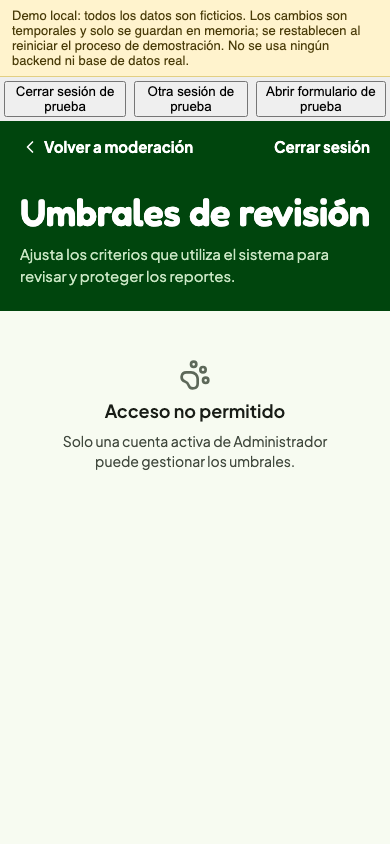
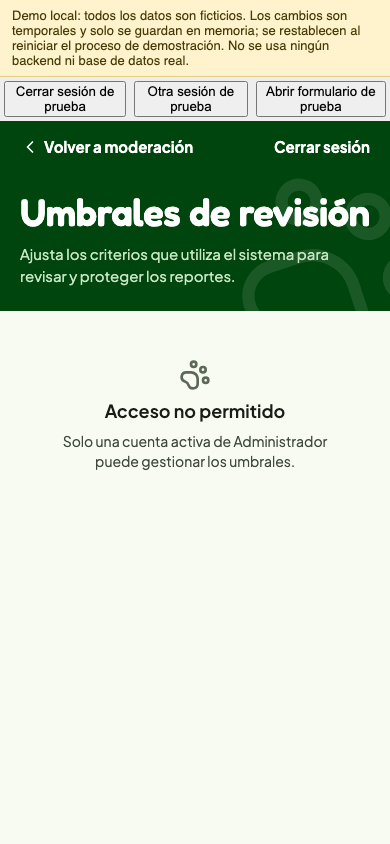
style(design): TD-134 Configuración: filas con número grande, una huella y barra con Guardar en una línea
Ajustes como lista agrupada, sin círculos con ícono. Recargar pasa a botón de ícono con nombre accesible. Misma lógica y contrato.

diff --git a/screens/ConfigurationScreen.js b/screens/ConfigurationScreen.js
@@ -7,31 +7,32 @@
  */
 import { useEffect, useRef, useState } from 'react';
 import { useTranslation } from 'react-i18next';
-import { AccessibilityInfo, BackHandler, KeyboardAvoidingView, Platform, Pressable, ScrollView, StyleSheet, Text, TextInput, useWindowDimensions, View } from 'react-native';
+import { AccessibilityInfo, BackHandler, KeyboardAvoidingView, Platform, Pressable, ScrollView, StyleSheet, Text, TextInput, View } from 'react-native';
 import { SafeAreaView } from 'react-native-safe-area-context';
 import { useConfiguration } from '../hooks/useConfiguration.js';
 import { CONFIGURATION_FIELDS, CONFIGURATION_GROUPS } from '../models/configuration.js';
-import { AppButton, Banner, Icon, PawTrail, Sheet, StateView } from '../components/ui/index.js';
+import { AppButton, Banner, Icon, Sheet, StateView } from '../components/ui/index.js';
 import { colors, fontFamily, layout, radius, spacing, type } from '../theme/index.js';
 
-const groupIcons = { flags: 'flag', duplicates: 'copy', trust: 'shield', location: 'map', limits: 'gauge' };
 /** Translates a validation error (`{key, values}`) or returns a string error as is. */
 function errorText(error, t) {
   return typeof error === 'string' ? error : error ? t(`configuration.validation.${error.key}`, error.values) : '';
 }
 /** Numeric input for one `CONFIGURATION_FIELDS` entry with hint, help and error text. */
-function ThresholdField({ field, value, error, disabled, t, wide, inputRef, onChange, onLayout }) {
+function ThresholdField({ field, value, error, disabled, t, inputRef, onChange, onLayout, last }) {
   const label = t(`configuration.fields.${field.key}`);
   const message = errorText(error, t);
   const hint = t(field.decimals === 0 ? 'configuration.integerHint' : 'configuration.decimalHint', field);
-  return <View onLayout={onLayout} style={[styles.field, wide && styles.wideField]}>
-    <Text nativeID={`${field.key}-label`} style={styles.label}>{label}</Text>
-    <Text style={styles.hint}>{hint}</Text>
+  return <View onLayout={onLayout} style={[styles.row, !last && styles.rowDivider]}>
+    <View style={styles.rowText}>
+      <Text nativeID={`${field.key}-label`} style={styles.label}>{label}</Text>
+      <Text style={styles.hint}>{hint}</Text>
+      <Text nativeID={`${field.key}-help`} accessibilityLiveRegion="polite" style={error ? styles.fieldError : styles.fieldHelp}>{message || t(`configuration.help.${field.key}`)}</Text>
+    </View>
     <TextInput ref={inputRef} testID={`configuration-${field.key}`} accessibilityLabel={label} accessibilityHint={message || hint}
       aria-invalid={Boolean(error)} aria-describedby={`${field.key}-help`} value={value} editable={!disabled}
       onChangeText={onChange} keyboardType={field.decimals === 0 ? 'number-pad' : 'decimal-pad'} inputMode={field.decimals === 0 ? 'numeric' : 'decimal'}
-      selectTextOnFocus autoCorrect={false} style={[styles.input, styles.numberInput, error && styles.inputError, disabled && styles.inputDisabled]} />
-    <Text nativeID={`${field.key}-help`} accessibilityLiveRegion="polite" style={error ? styles.fieldError : styles.fieldHelp}>{message || t(`configuration.help.${field.key}`)}</Text>
+      selectTextOnFocus autoCorrect={false} style={[styles.numberInput, error && styles.inputError, disabled && styles.inputDisabled]} />
   </View>;
 }
 
@@ -46,7 +47,6 @@ function ThresholdField({ field, value, error, disabled, t, wide, inputRef, onCh
  */
 export default function ConfigurationScreen({ accessToken, onBack, onLogout, logoutPending = false, api }) {
   const { t } = useTranslation();
-  const { width } = useWindowDimensions();
   const form = useConfiguration(accessToken, api);
   const [pendingAction, setPendingAction] = useState(null);
   const scroll = useRef(null);
@@ -103,7 +103,7 @@ export default function ConfigurationScreen({ accessToken, onBack, onLogout, log
     <KeyboardAvoidingView style={styles.flex} behavior={Platform.OS === 'ios' ? 'padding' : undefined}>
       <ScrollView ref={scroll} style={styles.scroll} keyboardShouldPersistTaps="handled" contentContainerStyle={styles.content}>
         <View style={styles.header}>
-          {ready ? <PawTrail style={styles.headerTrail} /> : null}
+          <View pointerEvents="none" accessible={false} aria-hidden importantForAccessibility="no" style={styles.bigPaw}><Icon name="dog" size={210} color={colors.onPrimary} strokeWidth={1.4} /></View>
           <View style={styles.headerInner}>
             {onBack || onLogout ? <View style={styles.topActions}>
               {onBack ? <Pressable accessibilityRole="button" disabled={form.saving} onPress={() => navigate('back')} hitSlop={8} style={styles.back}>
@@ -133,15 +133,18 @@ export default function ConfigurationScreen({ accessToken, onBack, onLogout, log
           {form.savedVersion ? <Banner tone="success" message={t('configuration.saved', { version: form.savedVersion })} /> : null}
           {errorCount ? <Banner tone="error" message={t('configuration.fixFields', { count: errorCount })} /> : null}
           {form.error && !errorCount ? <Banner tone="error" message={form.needsReload ? t('configuration.verifyBeforeRetry') : generalError} /> : null}
-          {CONFIGURATION_GROUPS.map((group) => <View key={group} onLayout={(event) => { sections.current[group] = event.nativeEvent.layout.y; }} style={styles.group}>
-            <View style={styles.sectionHeader}><View style={styles.sectionIcon}><Icon name={groupIcons[group] ?? 'info'} size={18} color={colors.primary} /></View><Text accessibilityRole="header" style={styles.sectionTitle}>{t(`configuration.groups.${group}`)}</Text></View>
-            <View style={styles.fields}>{CONFIGURATION_FIELDS.filter((field) => field.group === group).map((field) => <ThresholdField key={field.key} field={field} value={form.draft[field.key]}
-              error={form.fieldErrors[field.key]} disabled={form.saving || form.needsReload} t={t} wide={width >= 760}
-              inputRef={(node) => { inputs.current[field.key] = node; }} onChange={(value) => form.changeField(field.key, value)}
-              onLayout={(event) => { fieldOffsets.current[field.key] = event.nativeEvent.layout.y; }} />)}</View>
-          </View>)}
+          {CONFIGURATION_GROUPS.map((group) => {
+            const groupFields = CONFIGURATION_FIELDS.filter((field) => field.group === group);
+            return <View key={group} onLayout={(event) => { sections.current[group] = event.nativeEvent.layout.y; }} style={styles.group}>
+              <Text accessibilityRole="header" style={styles.sectionTitle}>{t(`configuration.groups.${group}`)}</Text>
+              <View style={styles.list}>{groupFields.map((field, index) => <ThresholdField key={field.key} field={field} value={form.draft[field.key]}
+                error={form.fieldErrors[field.key]} disabled={form.saving || form.needsReload} t={t} last={index === groupFields.length - 1}
+                inputRef={(node) => { inputs.current[field.key] = node; }} onChange={(value) => form.changeField(field.key, value)}
+                onLayout={(event) => { fieldOffsets.current[field.key] = event.nativeEvent.layout.y; }} />)}</View>
+            </View>;
+          })}
           <View style={styles.group} onLayout={(event) => { sections.current.note = event.nativeEvent.layout.y; }}>
-            <View style={styles.sectionHeader}><View style={styles.sectionIcon}><Icon name="info" size={18} color={colors.primary} /></View><Text accessibilityRole="header" style={styles.sectionTitle}>{t('configuration.reasonTitle')}</Text></View>
+            <Text accessibilityRole="header" style={styles.sectionTitle}>{t('configuration.reasonTitle')}</Text>
             <Text style={styles.hint}>{t('configuration.reasonHelp')}</Text>
             <TextInput ref={(node) => { inputs.current.change_note = node; }} testID="configuration-change_note" multiline textAlignVertical="top" value={form.draft.change_note}
               editable={!form.saving && !form.needsReload} accessibilityLabel={t('configuration.reasonTitle')} aria-invalid={Boolean(form.fieldErrors.change_note)}
@@ -155,8 +158,10 @@ export default function ConfigurationScreen({ accessToken, onBack, onLogout, log
         </View>
       </ScrollView>
       {ready ? <View style={styles.footer}><View style={styles.footerInner}>
-        <AppButton title={t(form.needsReload ? 'configuration.verify' : 'configuration.reload')} variant="glass" disabled={form.saving} onPress={() => navigate('reload')} style={styles.footerButton} />
-        <AppButton testID="configuration-save" variant="signal" title={t(form.saving ? 'configuration.saving' : 'configuration.save')} loading={form.saving} disabled={form.saving || form.needsReload} onPress={form.save} style={styles.footerButton} />
+        <Pressable accessibilityRole="button" accessibilityLabel={t(form.needsReload ? 'configuration.verify' : 'configuration.reload')} accessibilityState={{ disabled: form.saving }} disabled={form.saving} onPress={() => navigate('reload')} hitSlop={4} style={({ pressed }) => [styles.reload, pressed && styles.pressed, form.saving && styles.dim]}>
+          <Icon name="refresh" size={22} color={colors.onPrimary} />
+        </Pressable>
+        <AppButton testID="configuration-save" variant="signal" title={t(form.saving ? 'configuration.saving' : 'configuration.save')} loading={form.saving} disabled={form.saving || form.needsReload} onPress={form.save} style={styles.save} />
       </View></View> : null}
     </KeyboardAvoidingView>
     {pendingAction ? <Sheet onClose={() => setPendingAction(null)} maxHeight="70%">
@@ -171,7 +176,7 @@ const styles = StyleSheet.create({
   flex: { flex: 1 }, safeArea: { flex: 1, backgroundColor: colors.primary }, scroll: { backgroundColor: colors.background },
   content: { flexGrow: 1 },
   header: { backgroundColor: colors.primary, overflow: 'hidden' },
-  headerTrail: { top: '50%', left: '68%', bottom: spacing.lg },
+  bigPaw: { position: 'absolute', right: -44, top: 40, opacity: 0.1, transform: [{ rotate: '-18deg' }] },
   headerInner: { width: '100%', maxWidth: 960, alignSelf: 'center', paddingHorizontal: layout.margin, paddingTop: spacing.xs, paddingBottom: spacing.xxl, gap: spacing.sm },
   topActions: { flexDirection: 'row', alignItems: 'center', justifyContent: 'space-between' },
   back: { flexDirection: 'row', alignItems: 'center', gap: spacing.xs, minHeight: layout.minTouch, justifyContent: 'center' }, backText: { ...type.button, fontSize: 15, color: colors.onPrimary },
@@ -182,21 +187,24 @@ const styles = StyleSheet.create({
   environment: { fontFamily: fontFamily.label, fontSize: 13, color: colors.onForest, borderWidth: 1, borderColor: 'rgba(201,230,196,0.5)', borderRadius: radius.pill, paddingHorizontal: spacing.md, paddingVertical: spacing.xs },
   caption: { ...type.caption, color: colors.onForest },
   body: { width: '100%', maxWidth: 960, alignSelf: 'center', paddingHorizontal: layout.margin, paddingTop: spacing.xxl, paddingBottom: spacing.xxxl, gap: spacing.xxl },
-  group: { gap: spacing.lg },
-  sectionHeader: { flexDirection: 'row', alignItems: 'center', gap: spacing.md },
-  sectionIcon: { width: 36, height: 36, borderRadius: radius.pill, backgroundColor: colors.primarySoft, alignItems: 'center', justifyContent: 'center' },
-  sectionTitle: { fontFamily: fontFamily.displayMedium, fontSize: 22, lineHeight: 28, color: colors.primary, flexShrink: 1 },
-  fields: { flexDirection: 'row', flexWrap: 'wrap', gap: spacing.xl }, field: { width: '100%', gap: spacing.xs }, wideField: { flexBasis: '45%', flexGrow: 1 },
+  group: { gap: spacing.md },
+  sectionTitle: { fontFamily: fontFamily.display, fontSize: 26, lineHeight: 32, color: colors.primary },
+  list: { backgroundColor: colors.surface, borderRadius: radius.lg, borderWidth: 1, borderColor: colors.border, overflow: 'hidden' },
+  row: { flexDirection: 'row', alignItems: 'flex-start', gap: spacing.lg, padding: spacing.lg },
+  rowDivider: { borderBottomWidth: 1, borderBottomColor: colors.border },
+  rowText: { flex: 1, gap: spacing.xxs },
   label: { fontFamily: fontFamily.label, fontSize: 15, lineHeight: 21, color: colors.ink }, hint: { ...type.caption, color: colors.inkMuted },
+  numberInput: { width: 104, minHeight: 52, textAlign: 'right', fontFamily: fontFamily.number, fontVariant: ['tabular-nums'], fontSize: 24, color: colors.primary, backgroundColor: colors.primarySoft, borderWidth: 2, borderColor: 'transparent', borderRadius: radius.md, paddingHorizontal: spacing.md },
   input: { ...type.body, borderWidth: 1, borderColor: colors.outline, borderRadius: radius.sm, backgroundColor: colors.surface, color: colors.ink, paddingHorizontal: spacing.lg, paddingVertical: spacing.md, minHeight: 48 },
-  numberInput: { fontFamily: fontFamily.labelMedium, fontVariant: ['tabular-nums'], fontSize: 17 },
-  inputError: { borderColor: colors.danger, borderWidth: 2, backgroundColor: '#fffaf9' }, inputDisabled: { opacity: 0.65 },
+  inputError: { borderColor: colors.danger, backgroundColor: '#fffaf9' }, inputDisabled: { opacity: 0.65 },
   fieldHelp: { ...type.caption, color: colors.inkMuted }, fieldError: { ...type.caption, fontSize: 13, color: colors.danger, flexShrink: 1 },
   noteInput: { minHeight: 120 }, noteFooter: { flexDirection: 'row', justifyContent: 'space-between', gap: spacing.md },
   counter: { fontFamily: fontFamily.labelMedium, fontVariant: ['tabular-nums'], fontSize: 13, color: colors.inkMuted },
   footnote: { ...type.caption, color: colors.inkMuted },
-  footer: { backgroundColor: colors.primary, paddingHorizontal: spacing.lg, paddingTop: spacing.md, paddingBottom: spacing.md },
-  footerInner: { width: '100%', maxWidth: 920, alignSelf: 'center', flexDirection: 'row', gap: spacing.md }, footerButton: { flex: 1, borderRadius: 12 },
+  footer: { backgroundColor: colors.primary, paddingHorizontal: spacing.lg, paddingVertical: spacing.md },
+  footerInner: { width: '100%', maxWidth: 920, alignSelf: 'center', flexDirection: 'row', alignItems: 'center', gap: spacing.lg },
+  reload: { width: 52, height: 52, borderRadius: 12, alignItems: 'center', justifyContent: 'center', borderWidth: 1, borderColor: 'rgba(201,230,196,0.45)' }, pressed: { opacity: 0.7 }, dim: { opacity: 0.45 },
+  save: { flex: 1, borderRadius: 12 },
   sheetTitle: { fontFamily: fontFamily.display, fontSize: 26, lineHeight: 32, color: colors.ink }, sheetBody: { ...type.body, color: colors.inkMuted },
   modalActions: { gap: spacing.md, marginTop: spacing.sm },
 });

diff --git a/components/ui/Icon.js b/components/ui/Icon.js
@@ -2,7 +2,7 @@
  * @module components/ui/Icon
  * Single place that maps semantic icon names to lucide glyphs, so screens never import the icon library.
  */
-import { AlertTriangle, Camera, Check, ChevronDown, ChevronLeft, ChevronRight, Copy, Flag, Gauge, Info, LogOut, MapPin, PawPrint, Settings, ShieldCheck, X } from 'lucide-react-native';
+import { AlertTriangle, Camera, Check, ChevronDown, ChevronLeft, ChevronRight, Copy, Flag, Gauge, Info, LogOut, MapPin, PawPrint, RefreshCw, Settings, ShieldCheck, X } from 'lucide-react-native';
 import { colors } from '../../theme/index.js';
 
 const glyphs = {
@@ -22,6 +22,7 @@ const glyphs = {
   shield: ShieldCheck,
   gauge: Gauge,
   logout: LogOut,
+  refresh: RefreshCw,
 };
 
 /** Decorative by default (hidden from accessibility); the owning control supplies the label. */
